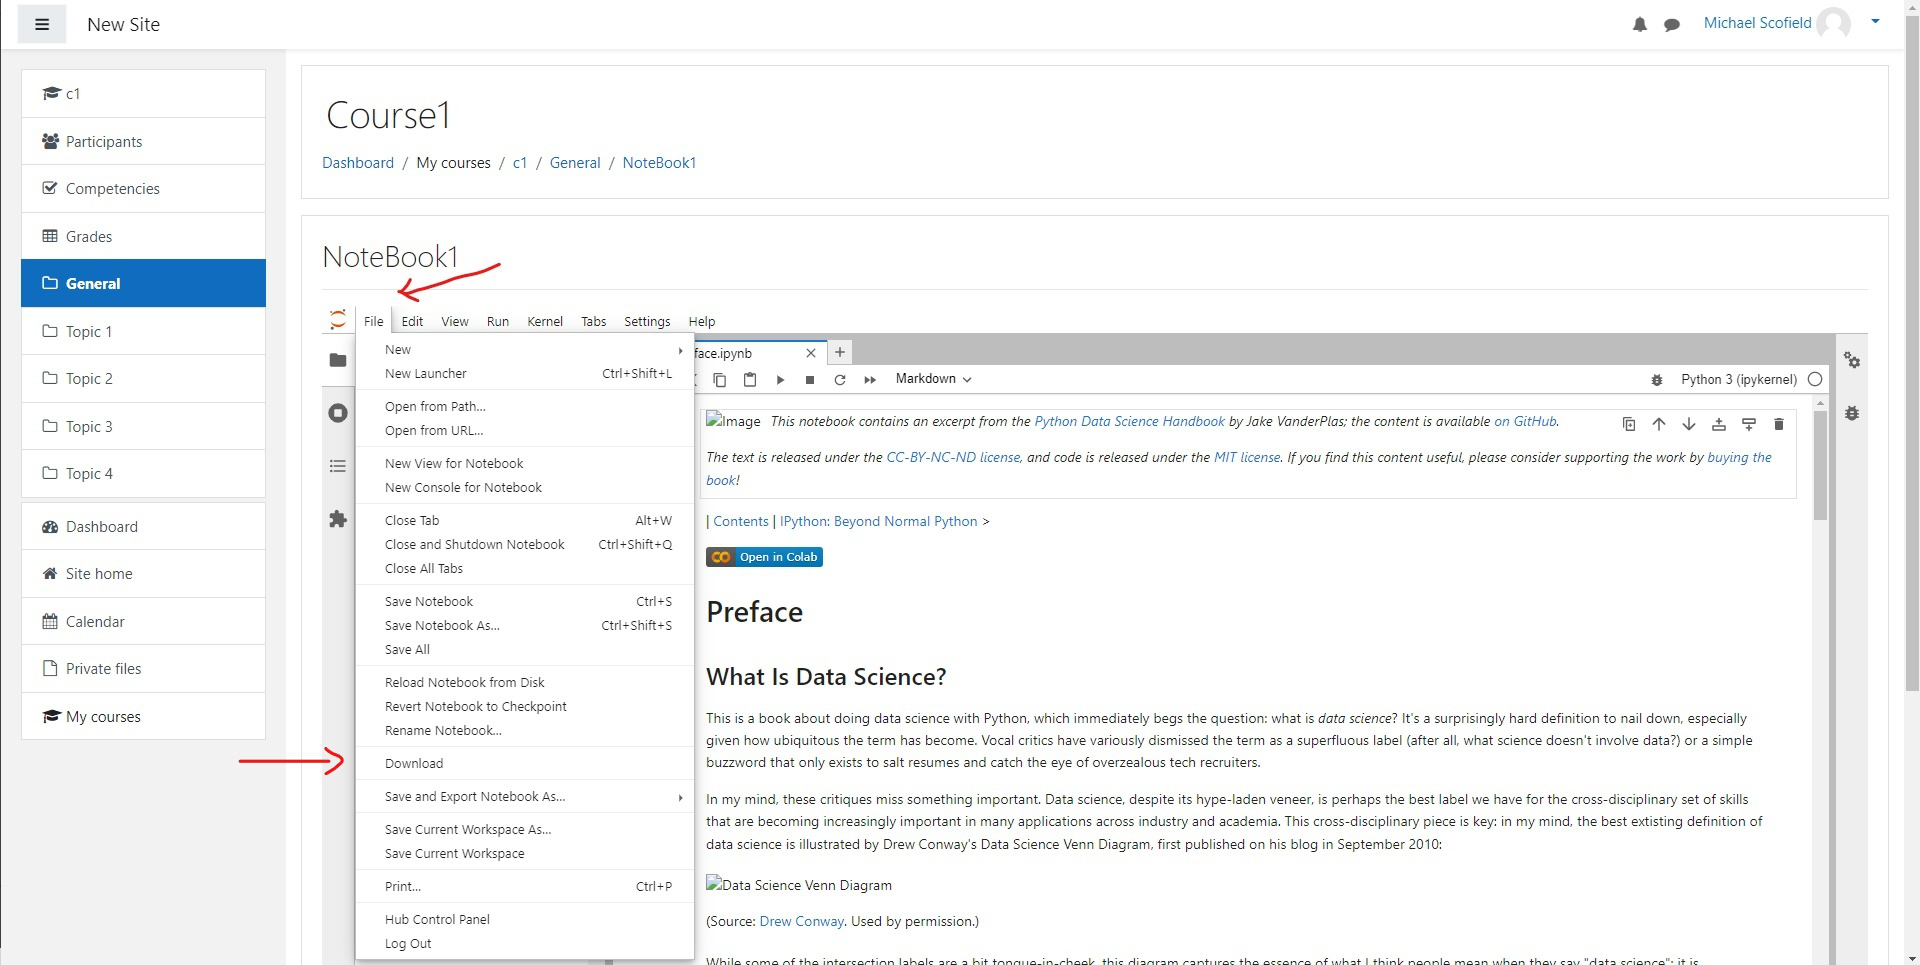
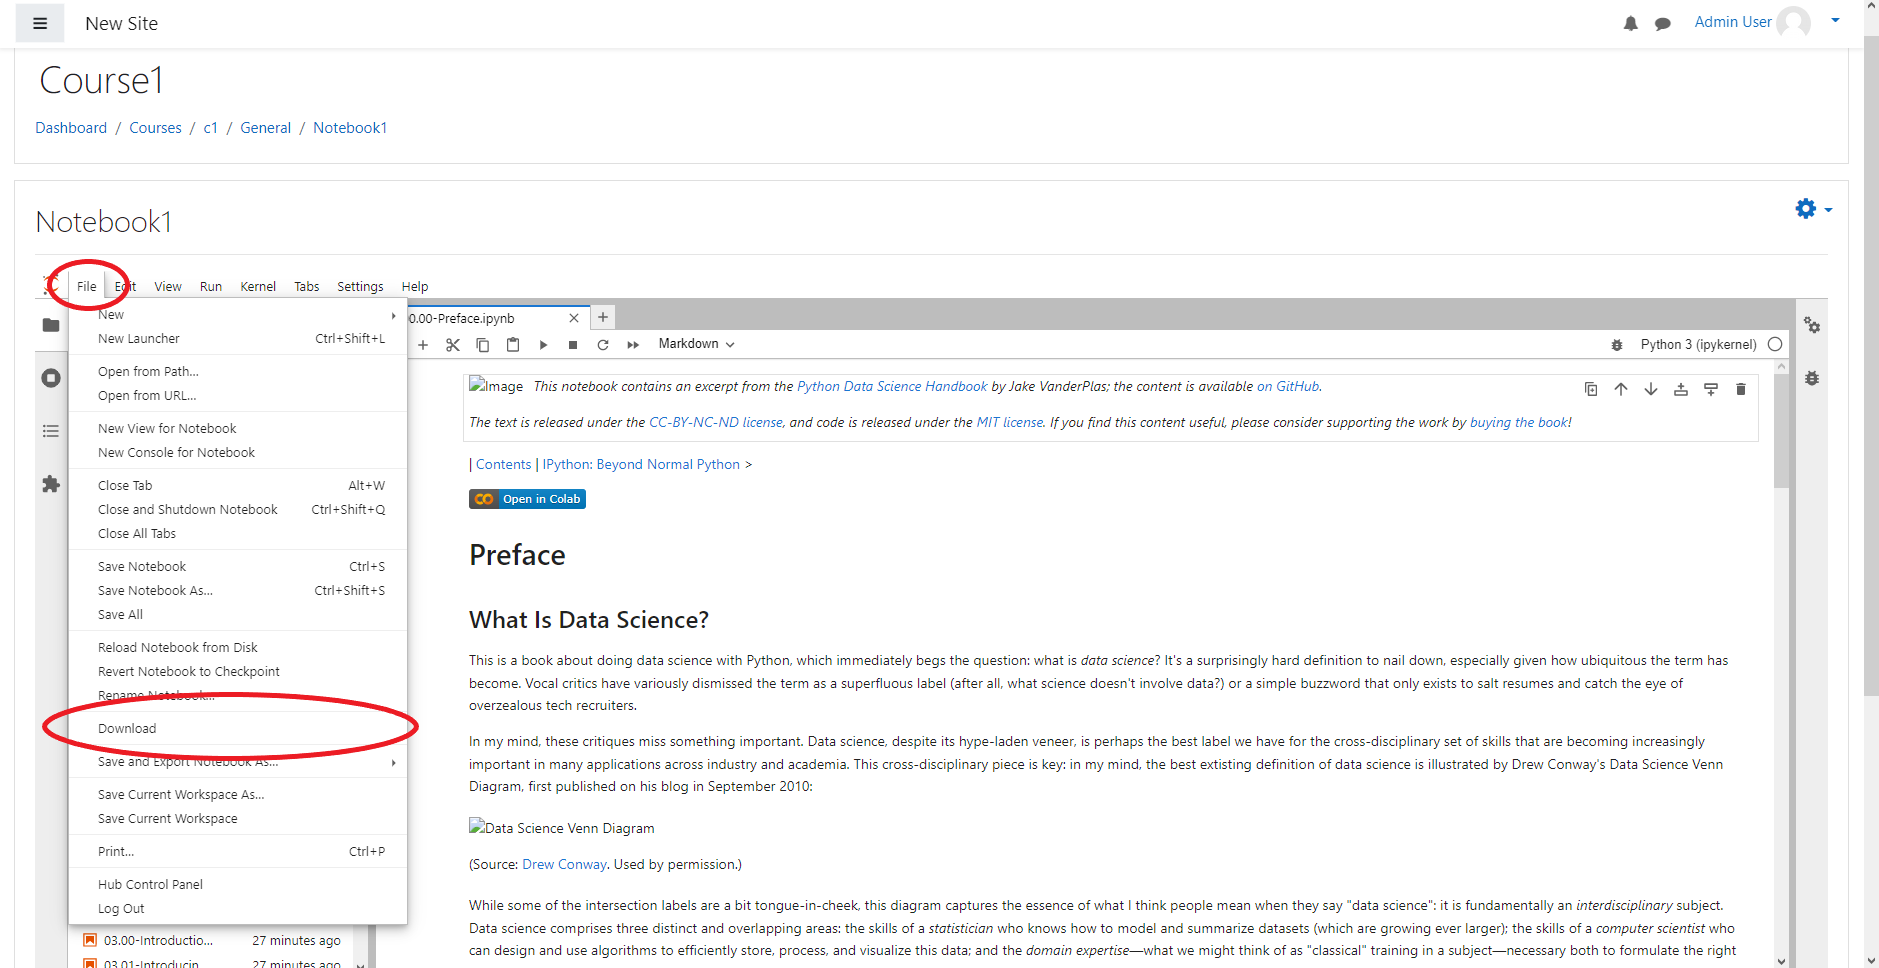
Added german pictures and did a small overhaul

diff --git a/jupyter/StudentDocumentation.md b/jupyter/StudentDocumentation.md
@@ -21,15 +21,15 @@ Diese bietet den Zugriff auf verschiedene __Jupyter Notebooks__.\
 ### Funktionen in einem Notebook
 Nachdem das richtige Notebook ausgewählt wurde und man zu einer Aufgabe kommt, in der ein Code ausgeführt werden muss, kann dies
 mit dem kleinen Dreieck oben gemacht werden. 
-![playButton](images/playButton.png)
+![playButtonDeutsch](images/runButtonDeutsch.png)
 Zum Speichern eines Notebooks kann man entweder oben auf file drücken und dann manuell auswählen oder "Strg + s" drücken.\
-![saveNotebook](images/saveNotebook.png)
+![saveNotebookDeutsch](images/saveNotebookDeutsch.png)
 Falls man ein Notebook neuladen möchte, nachdem man selbst schon Änderungen vorgenommen hat, muss man dieses erst unter anderem Namen speichern.
 Dies kann wieder oben unter dem Reiter file gemacht werden oder mit "Strg + Umschalt +s".\
 Danach muss man das Alte löschen und die reset-Taste unten drücken.\
 ![resetButton](images/resetButton.png)
 Wenn man ein Notebook downloaden möchte, klickt man wieder oben auf file und danach auf download. Nun hat man die Datei lokal bei sich auf dem Rechner.
-![downloadNotebook](images/downloadNotebook.png)
+![downloadNotebookDeutsch](images/downloadNotebookDeutsch.png)
 
 
 ## English
@@ -53,7 +53,7 @@ This provides access to various __Jupyter notebooks__.
 ### Functions in a notebook
 After the correct notebook has been selected and you come to a task where some code needs to be executed, this can be
  done with the small triangle at the top.
-![playButton](images/playButton.png)
+![playButton](images/runButton.png)
 To save a notebook you can either press file at the top and then select it manually or press "Ctrl + s".\
 ![saveNotebook](images/saveNotebook.png)
 If you want to reload a notebook after you have already made changes yourself, you have to save it under a different name first.
